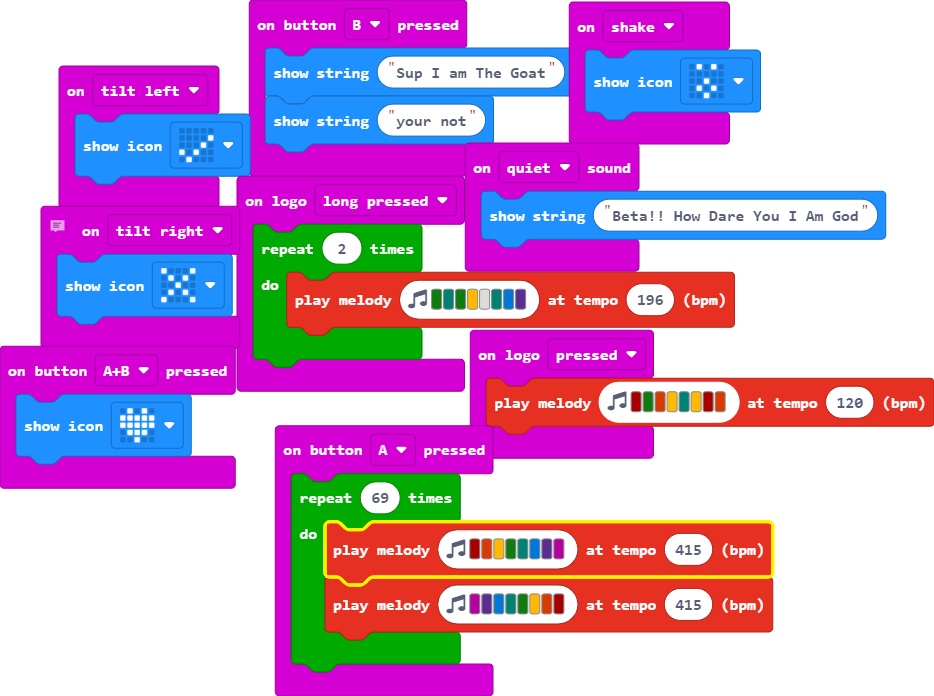
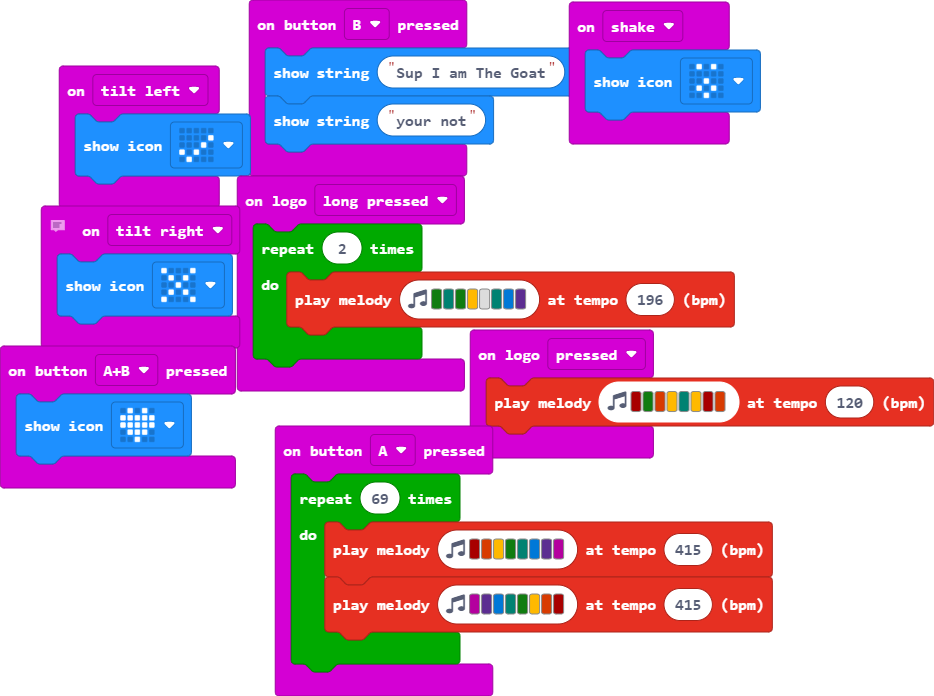
Update main.blocks, main.ts

diff --git a/main.ts b/main.ts
@@ -27,9 +27,6 @@ input.onGesture(Gesture.Shake, function () {
 input.onGesture(Gesture.TiltRight, function () {
     basic.showIcon(IconNames.No)
 })
-input.onSound(DetectedSound.Quiet, function () {
-    basic.showString("Beta!! How Dare You I Am God")
-})
 input.onLogoEvent(TouchButtonEvent.Pressed, function () {
     music.playMelody("C5 G B A F A C5 B ", 120)
 })
